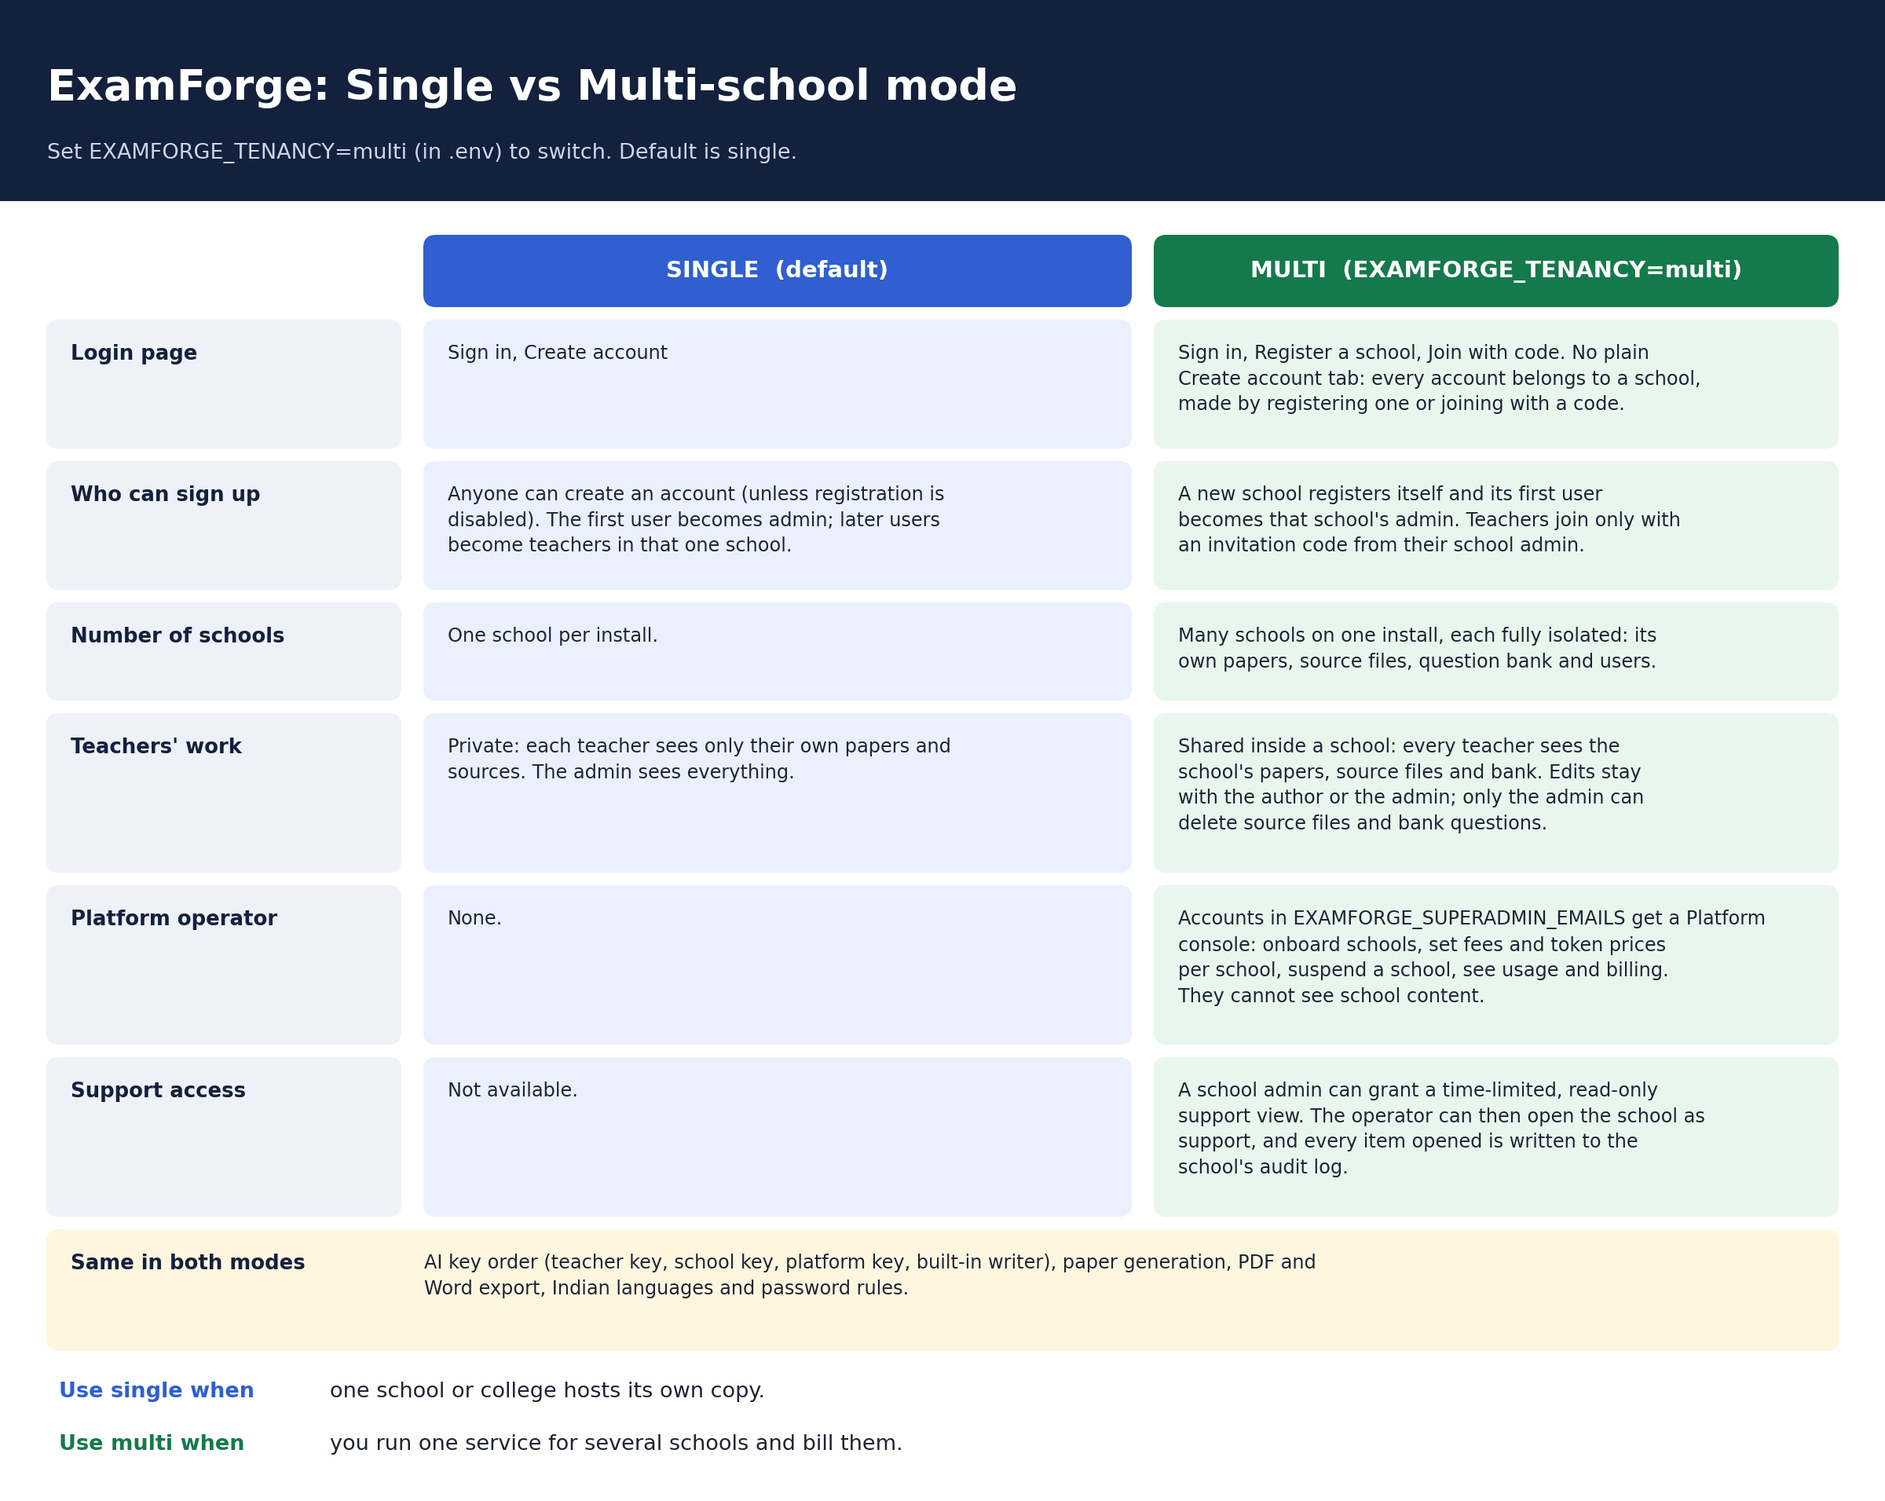
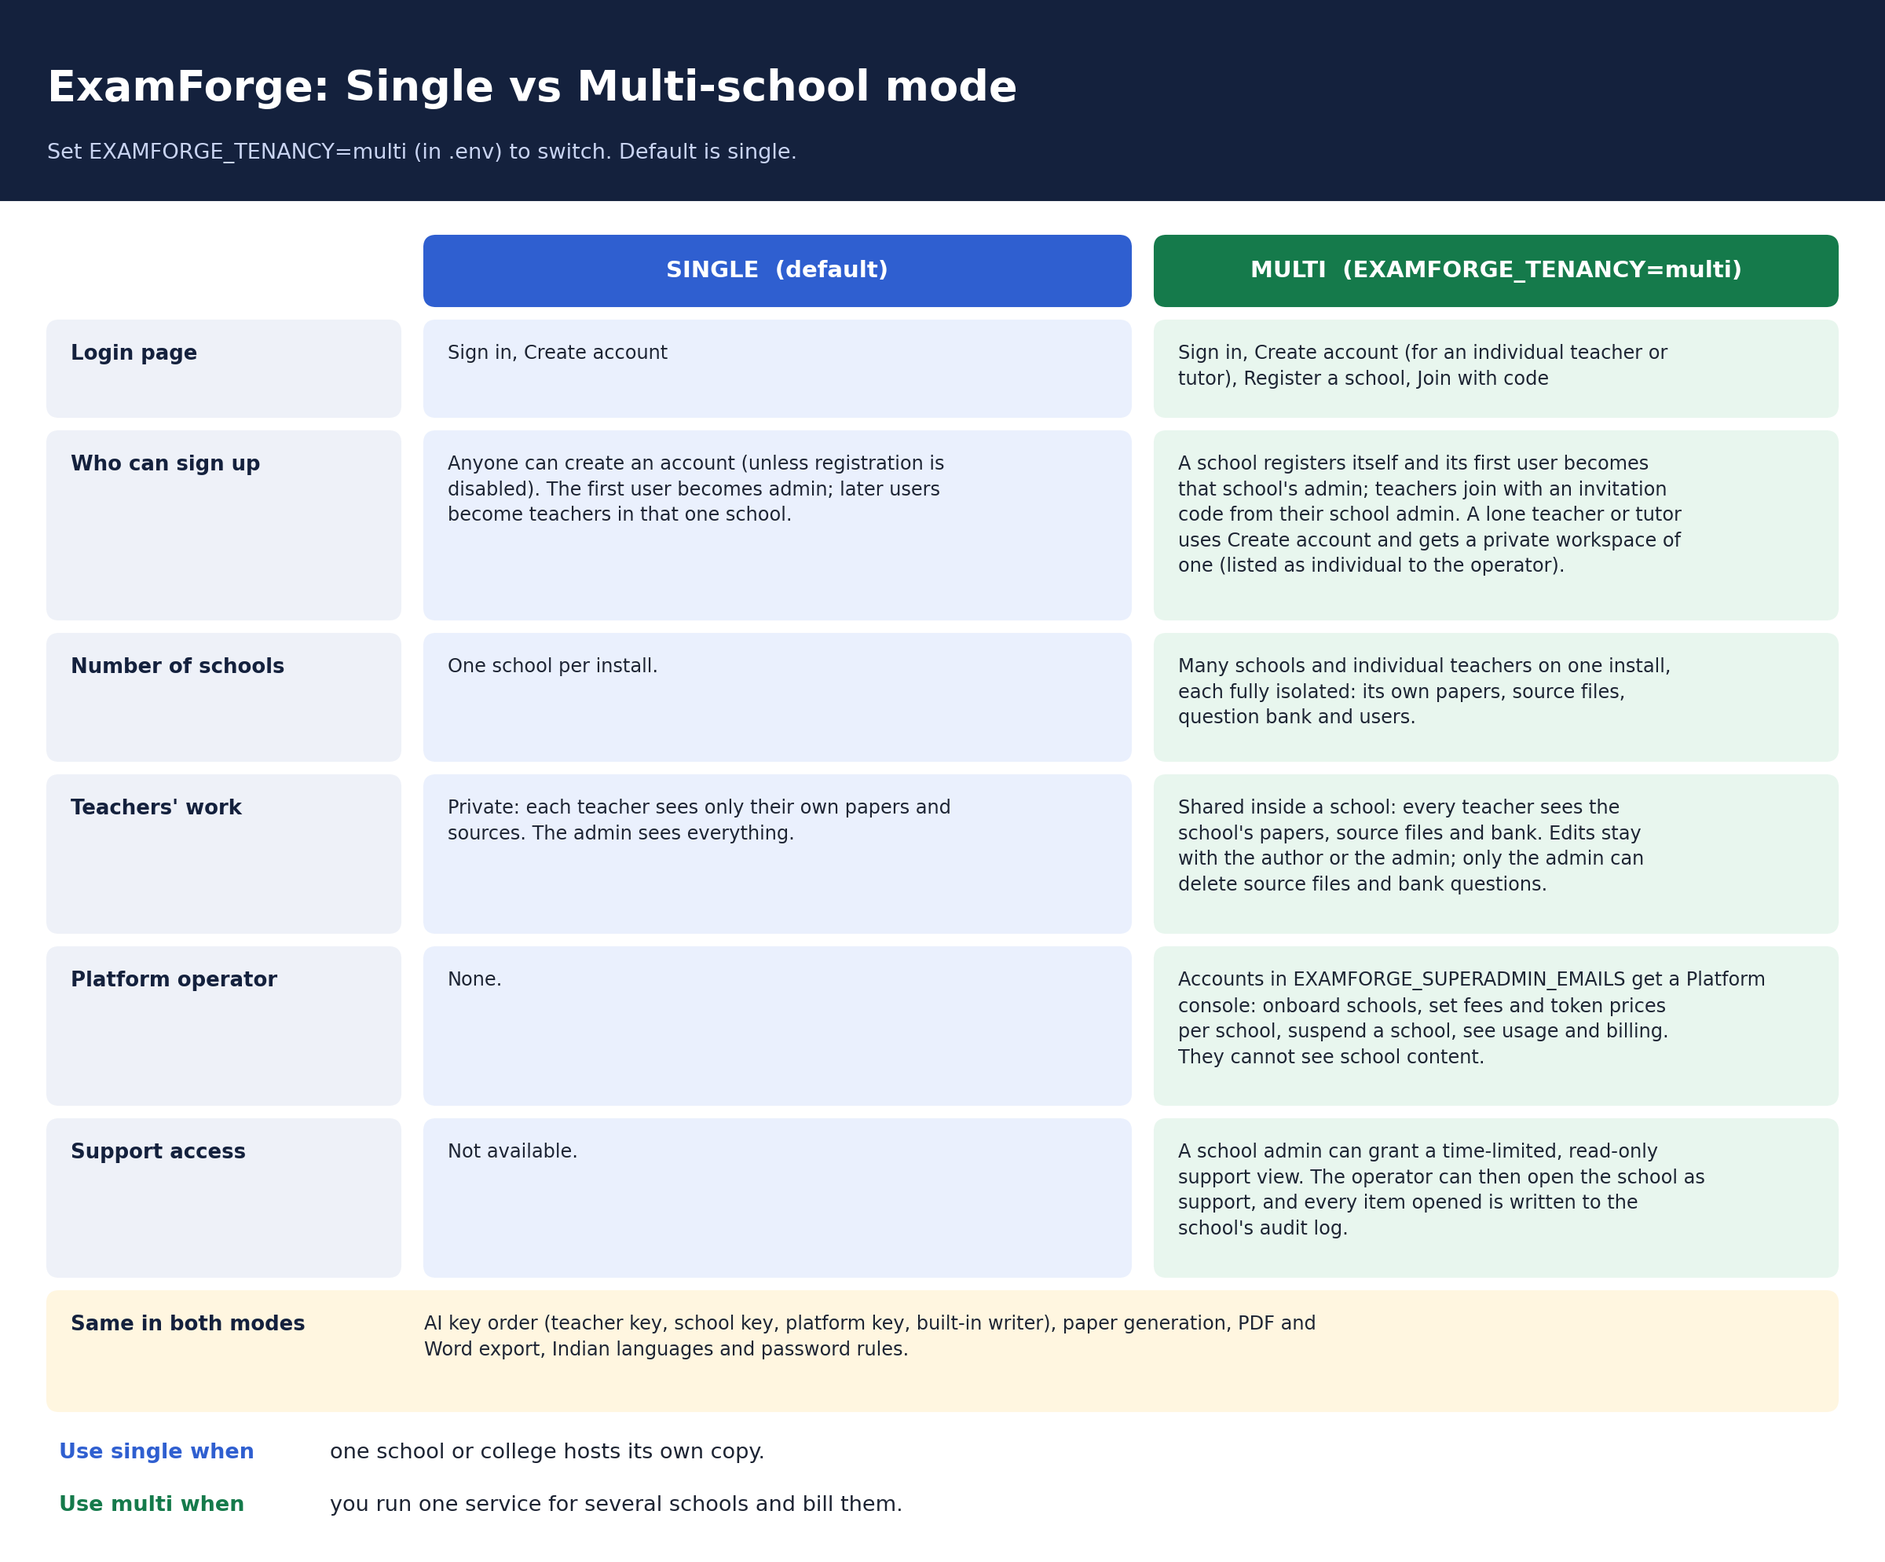
Multi-school: Create account tab for individual teachers (private workspace of one)

diff --git a/app/static/app.js b/app/static/app.js
@@ -179,6 +179,7 @@
     const joinCode = (location.hash.match(/^#\/join\/([\w-]+)/) || [])[1] || '';
     const tabs = [['in', 'Sign in']];
     if (multi) {
+      if (cfg.allow_individual_signup) tabs.push(['solo', 'Create account']);
       if (cfg.allow_school_signup) tabs.push(['school', 'Register a school']);
       tabs.push(['join', 'Join with code']);
     } else if (cfg.allow_registration) tabs.push(['up', 'Create account']);
@@ -188,15 +189,16 @@
       <div class="tabs">${tabs.map(([k, l]) => `<button data-t="${k}">${l}</button>`).join('')}</div>
       <form id="af" class="col" autocomplete="on">
         <label class="f" data-m="join" hidden>Invitation code<input type="text" name="invite_code" autocomplete="off" value="${esc(joinCode)}"></label>
-        <label class="f" data-m="up school join" hidden>Full name<input type="text" name="name" autocomplete="name"></label>
+        <label class="f" data-m="up solo school join" hidden>Full name<input type="text" name="name" autocomplete="name"></label>
         <label class="f" data-m="up school" hidden>School / institution<input type="text" name="organization" autocomplete="organization"></label>
         <label class="f">Email<input type="email" name="email" required autocomplete="username"></label>
-        <label class="f">Password<input type="password" name="password" required minlength="10" autocomplete="current-password"><span class="muted small" data-m="up school join" hidden>At least 10 characters.</span></label>
+        <label class="f">Password<input type="password" name="password" required minlength="10" autocomplete="current-password"><span class="muted small" data-m="up solo school join" hidden>At least 10 characters.</span></label>
+        <div class="muted small" data-m="solo" hidden>For individual teachers and tutors who are not part of a school. You get your own private workspace; nobody else can see your papers.</div>
         <div class="muted small" data-m="school" hidden>You will be the administrator of this school and can invite your teachers afterwards.</div>
         <div class="banner bad" id="aerr" hidden></div>
         <button class="btn primary" type="submit" id="asubmit">Sign in</button></form></div></div>`;
     let mode = 'in';
-    const label = { in: 'Sign in', up: 'Create account', school: 'Register school', join: 'Join school' };
+    const label = { in: 'Sign in', up: 'Create account', solo: 'Create account', school: 'Register school', join: 'Join school' };
     const setMode = (m) => {
       mode = m;
       $$('.tabs button').forEach((x) => x.classList.toggle('on', x.dataset.t === m));
@@ -214,6 +216,7 @@
       try {
         let body = { email: f.email, password: f.password };
         if (mode !== 'in') body = Object.assign(body, { name: f.name || f.email });
+        if (mode === 'solo') body.individual = true;
         if (mode === 'up') body.organization = f.organization || '';
         if (mode === 'school') body.school_name = f.organization || '';
         if (mode === 'join') body.invite_code = (f.invite_code || '').trim();

diff --git a/app/static/platform.js b/app/static/platform.js
@@ -26,7 +26,7 @@
         <label class="right row small">Month <input type="month" id="pm" value="${esc(month)}" style="width:150px"></label></div></div>`;
       $('#pm', main).onchange = (e) => { month = e.target.value; draw().catch((x) => toast(x.message, 'bad')); };
       $('#plist', main).innerHTML = `<table class="t"><thead><tr><th>School</th><th>Users</th><th>Papers</th><th>Terms</th><th>Tokens</th><th>Total</th><th>Support</th><th></th></tr></thead><tbody>${d.orgs.map((o) =>
-        `<tr><td><b>${esc(o.name)}</b><div class="muted small">${o.is_active ? 'Active' : '<span class="badge bad">suspended</span>'} · since ${when(o.created_at)}</div></td>
+        `<tr><td><b>${esc(o.name)}</b>${o.kind === 'individual' ? ' <span class="badge">individual</span>' : ''}<div class="muted small">${o.is_active ? 'Active' : '<span class="badge bad">suspended</span>'} · since ${when(o.created_at)}</div></td>
         <td>${o.users}</td><td>${o.papers}</td>
         <td class="small">${money(o.terms.platform_fee_monthly, cur)} / month<br>${money(o.terms.price_input_per_million, cur)} in · ${money(o.terms.price_output_per_million, cur)} out per 1M${o.terms.custom ? ' <span class="badge warn">custom</span>' : ''}</td>
         <td>${tok(o.month.platform_tokens)}</td><td><b>${money(o.month.total, cur)}</b></td>

diff --git a/tests/test_tenancy.py b/tests/test_tenancy.py
@@ -72,7 +72,8 @@ def make_paper(c, h):
 
 def test_schools_register_separately_and_the_first_user_administers(multi):
     app, c = multi
-    assert c.get("/api/auth/config").json() == {"tenancy": "multi", "allow_registration": True, "allow_school_signup": True}
+    assert c.get("/api/auth/config").json() == {"tenancy": "multi", "allow_registration": True, "allow_school_signup": True,
+                                             "allow_individual_signup": True}
     assert signup(c, "x@a.test").status_code == 422  # neither a school name nor an invitation
     _, a = ok(c, "a@a.test", "Sunrise Public School")
     _, b = ok(c, "b@b.test", "Hillview College")
@@ -268,3 +269,49 @@ def test_a_database_from_before_multi_school_is_adopted_into_one_school(settings
             assert db.query(UsageLog).one().org_id == org_id and db.query(AuditLog).one().org_id == org_id
             assert db.query(AiSetting).one().owner_id == org_id
         assert ensure_default_org(state) is None  # running it again changes nothing
+
+
+# ----------------------------------------------------------------- individual teachers
+
+def solo(c, email, name="Tutor"):
+    return c.post("/api/auth/register", json={"email": email, "password": PW, "name": name, "individual": True})
+
+
+def test_individual_teacher_gets_a_private_workspace_of_one(multi):
+    app, c = multi
+    r = solo(c, "tutor@home.test", "Meera")
+    assert r.status_code == 200, r.text
+    me = r.json()["user"]
+    assert me["role"] == "admin" and me["organization"] == "Meera (individual)"
+    h = {"Authorization": "Bearer " + r.json()["token"]}
+    other, _ = ok(c, "x@other.test", "Other School")
+    mine = make_paper(c, h)
+    assert c.get(f"/api/papers/{mine['id']}", headers=other).status_code == 404
+    assert c.get("/api/papers", headers=other).json()["papers"] == []
+    with app.state.ctx.db.session() as db:
+        assert db.get(Organization, me["org_id"]).kind == "individual"
+
+
+def test_two_individuals_never_share_even_with_the_same_name(multi):
+    app, c = multi
+    a = solo(c, "one@home.test", "Sam").json()
+    b = solo(c, "two@home.test", "Sam").json()
+    assert a["user"]["org_id"] != b["user"]["org_id"]
+
+
+def test_individual_signup_can_be_closed_without_closing_schools(settings):
+    app = create_app(dataclasses.replace(settings, tenancy="multi", allow_individual_signup=False,
+                                         superadmin_emails=[OPERATOR]))
+    with TestClient(app) as c:
+        assert c.get("/api/auth/config").json()["allow_individual_signup"] is False
+        assert solo(c, "tutor@home.test").status_code == 403
+        assert signup(c, "a@a.test", "A School").status_code == 200
+
+
+def test_operator_console_labels_individual_workspaces(multi):
+    app, c = multi
+    solo(c, "tutor@home.test", "Meera")
+    ok(c, "a@a.test", "A School")
+    op, _ = ok(c, OPERATOR)
+    kinds = {o["name"]: o["kind"] for o in c.get("/api/platform/orgs", headers=op).json()["orgs"]}
+    assert kinds["Meera (individual)"] == "individual" and kinds["A School"] == "school"

diff --git a/app/api/auth.py b/app/api/auth.py
@@ -22,6 +22,7 @@ class RegisterBody(BaseModel):
     organization: str = Field(default="", max_length=200)
     school_name: str = Field(default="", max_length=200)  # multi-school: registers a new school with you as its administrator
     invite_code: str = Field(default="", max_length=100)  # joins an existing school
+    individual: bool = False  # multi-school: a lone teacher opens a personal workspace of one
 
 
 class LoginBody(BaseModel):
@@ -42,7 +43,8 @@ def auth_config(request: Request):
     """Public: lets the sign-in page show the right registration choices."""
     s = get_state(request).settings
     return {"tenancy": s.tenancy, "allow_registration": s.allow_registration,
-            "allow_school_signup": s.allow_school_signup and s.allow_registration}
+            "allow_school_signup": s.allow_school_signup and s.allow_registration,
+            "allow_individual_signup": s.allow_individual_signup and s.allow_registration}
 
 
 @router.post("/register")
@@ -65,6 +67,11 @@ def register(body: RegisterBody, request: Request):
             if org is None:
                 org = tenancy.new_org(db, body.organization or "My School")
             role = "admin" if db.query(User).count() == 0 else "teacher"
+        elif body.individual:
+            if not (cfg.allow_registration and cfg.allow_individual_signup):
+                raise HTTPException(403, "Individual sign-up is closed. Ask your school administrator for an invitation.")
+            who = body.name.strip() or email.split("@")[0]
+            org, role = tenancy.new_org(db, f"{who} (individual)", kind="individual"), "admin"
         else:
             operator = email in cfg.superadmin_emails
             if not (cfg.allow_registration and cfg.allow_school_signup) and not operator:

diff --git a/app/config.py b/app/config.py
@@ -66,6 +66,7 @@ class Settings:
     db_pool_size: int
     tenancy: str  # single: one school per deployment | multi: many schools, sign-up by school or invite
     allow_school_signup: bool
+    allow_individual_signup: bool  # multi: a lone teacher or tutor may open a personal workspace
     superadmin_emails: List[str]
     hybrid_writer: bool  # let code write what it can write exactly
     allow_private_ai_urls: bool  # permit customer AI endpoints on private networks (on-prem Ollama/vLLM)
@@ -134,6 +135,7 @@ def load_settings(load_env_file: bool = True) -> Settings:
         db_pool_size=max(1, _int("EXAMFORGE_DB_POOL_SIZE", 10)),
         tenancy="multi" if os.environ.get("EXAMFORGE_TENANCY", "single").lower() == "multi" else "single",
         allow_school_signup=_bool("EXAMFORGE_ALLOW_SCHOOL_SIGNUP", True),
+        allow_individual_signup=_bool("EXAMFORGE_ALLOW_INDIVIDUAL_SIGNUP", True),
         superadmin_emails=[e.strip().lower() for e in os.environ.get("EXAMFORGE_SUPERADMIN_EMAILS", "").split(",") if e.strip()],
         hybrid_writer=_bool("EXAMFORGE_HYBRID_WRITER", True),
         allow_private_ai_urls=_bool("EXAMFORGE_ALLOW_PRIVATE_AI_URLS", False),

diff --git a/app/api/platform.py b/app/api/platform.py
@@ -25,7 +25,7 @@ def _org_json(db, org: Organization, usage: Dict[str, Any], state) -> Dict[str, 
     tokens, charge = usage.get(org.id, (0, 0))
     fee = price["fee"]
     return {
-        "id": org.id, "name": org.name, "is_active": org.is_active, "created_at": org.created_at.isoformat() + "Z",
+        "id": org.id, "name": org.name, "kind": org.kind or "school", "is_active": org.is_active, "created_at": org.created_at.isoformat() + "Z",
         "users": db.query(User).filter(User.org_id == org.id).count(),
         "papers": db.query(Paper).join(User, User.id == Paper.owner_id).filter(User.org_id == org.id).count(),
         "support": support.grant_json(support.active_grant(db, org.id)),

diff --git a/app/models.py b/app/models.py
@@ -36,6 +36,7 @@ class Organization(Base):
     id: Mapped[str] = mapped_column(String(32), primary_key=True, default=_uuid)
     name: Mapped[str] = mapped_column(String(200))
     is_active: Mapped[bool] = mapped_column(Boolean, default=True)  # a suspended school cannot sign in or generate
+    kind: Mapped[str] = mapped_column(String(16), default="school")  # "individual" = one teacher's own workspace; blank on old rows means school
     # Per-school commercial terms; null means "use the platform default".
     platform_fee_monthly: Mapped[Optional[float]] = mapped_column(Float, nullable=True)
     price_input_per_million: Mapped[Optional[float]] = mapped_column(Float, nullable=True)

diff --git a/app/services/tenancy.py b/app/services/tenancy.py
@@ -21,8 +21,8 @@ def _hash(code: str) -> str:
     return hashlib.sha256(code.strip().encode()).hexdigest()
 
 
-def new_org(db, name: str) -> Organization:
-    org = Organization(name=name.strip()[:200] or "My School")
+def new_org(db, name: str, kind: str = "school") -> Organization:
+    org = Organization(name=name.strip()[:200] or "My School", kind=kind)
     db.add(org)
     db.flush()
     return org

diff --git a/README.md b/README.md
@@ -33,9 +33,9 @@ questions, add an AI key: each teacher or school can use their own, or the opera
 
 | | **Single** (default) | **Multi** (`EXAMFORGE_TENANCY=multi`) |
 |---|---|---|
-| **Login page** | Sign in, Create account | Sign in, Register a school, Join with code. There is no plain Create account tab: every account belongs to a school, made by registering one or joining with a code. |
-| **Who can sign up** | Anyone can create an account (unless registration is disabled). The first user becomes admin; later users become teachers in that one school. | A new school registers itself and its first user becomes that school's admin. Teachers join only with an invitation code from their school admin. |
-| **Number of schools** | One school per install. | Many schools on one install, each fully isolated: its own papers, source files, question bank and users. |
+| **Login page** | Sign in, Create account | Sign in, Create account (for an individual teacher or tutor), Register a school, Join with code |
+| **Who can sign up** | Anyone can create an account (unless registration is disabled). The first user becomes admin; later users become teachers in that one school. | A school registers itself and its first user becomes that school's admin; teachers join with an invitation code from their school admin. A lone teacher or tutor uses Create account and gets a private workspace of one (listed as "individual" to the operator). |
+| **Number of schools** | One school per install. | Many schools and individual teachers on one install, each fully isolated: its own papers, source files, question bank and users. |
 | **Teachers' work** | Private: each teacher sees only their own papers and sources. The admin sees everything. | Shared inside a school: every teacher sees the school's papers, source files and bank. Edits stay with the author or the admin; only the admin can delete source files and bank questions. |
 | **Platform operator** | None. | Accounts in `EXAMFORGE_SUPERADMIN_EMAILS` get a Platform console: onboard schools, set fees and token prices per school, suspend a school, see usage and billing. They cannot see school content. |
 | **Support access** | Not available. | A school admin can grant a time-limited, read-only support view. The operator can then open the school as support, and every item opened is written to the school's audit log. |

diff --git a/docs/ARCHITECTURE.md b/docs/ARCHITECTURE.md
@@ -305,7 +305,7 @@ Set `EXAMFORGE_TENANCY=multi` to host several schools or colleges. The default, 
 | Piece | How it works |
 |---|---|
 | School | An `Organization`. Every user belongs to one (`User.org_id`). Usage and audit rows carry `org_id` too. |
-| Sign-up | A new school registers and its first user becomes administrator. Everyone else joins with an invitation code. `EXAMFORGE_ALLOW_SCHOOL_SIGNUP=false` closes open school sign-up; invitations still work. |
+| Sign-up | A new school registers and its first user becomes administrator. Everyone else joins with an invitation code. A lone teacher or tutor can use Create account, which opens a private workspace of one (an organization with `kind="individual"`, shown to the operator as such). `EXAMFORGE_ALLOW_SCHOOL_SIGNUP=false` closes open school sign-up and `EXAMFORGE_ALLOW_INDIVIDUAL_SIGNUP=false` closes individual sign-up; invitations still work. |
 | Invitations | Single-use, expiring (default 14 days), optionally locked to one email. Only a hash is stored; the code is shown once. |
 | Isolation | Documents, papers, patterns, the question bank, usage, billing, audit log and the school-wide AI key are all scoped to the school. A request for another school's record gets 404, exactly as if it did not exist. Administrators manage their own school only. |
 | Inside a school | Source files, papers, the question bank (including reuse and repeat-avoidance) and custom exam patterns belong to the whole school: everyone in it sees them and can use them, and each shows who made it. Only the person who made a paper or pattern, or the school administrator, can edit or delete it. Only the administrator can delete source files and bank questions. AI keys stay personal; the school key, users, invitations, audit log, usage and billing are administrator-only. A single-school install keeps each teacher's work private. |
